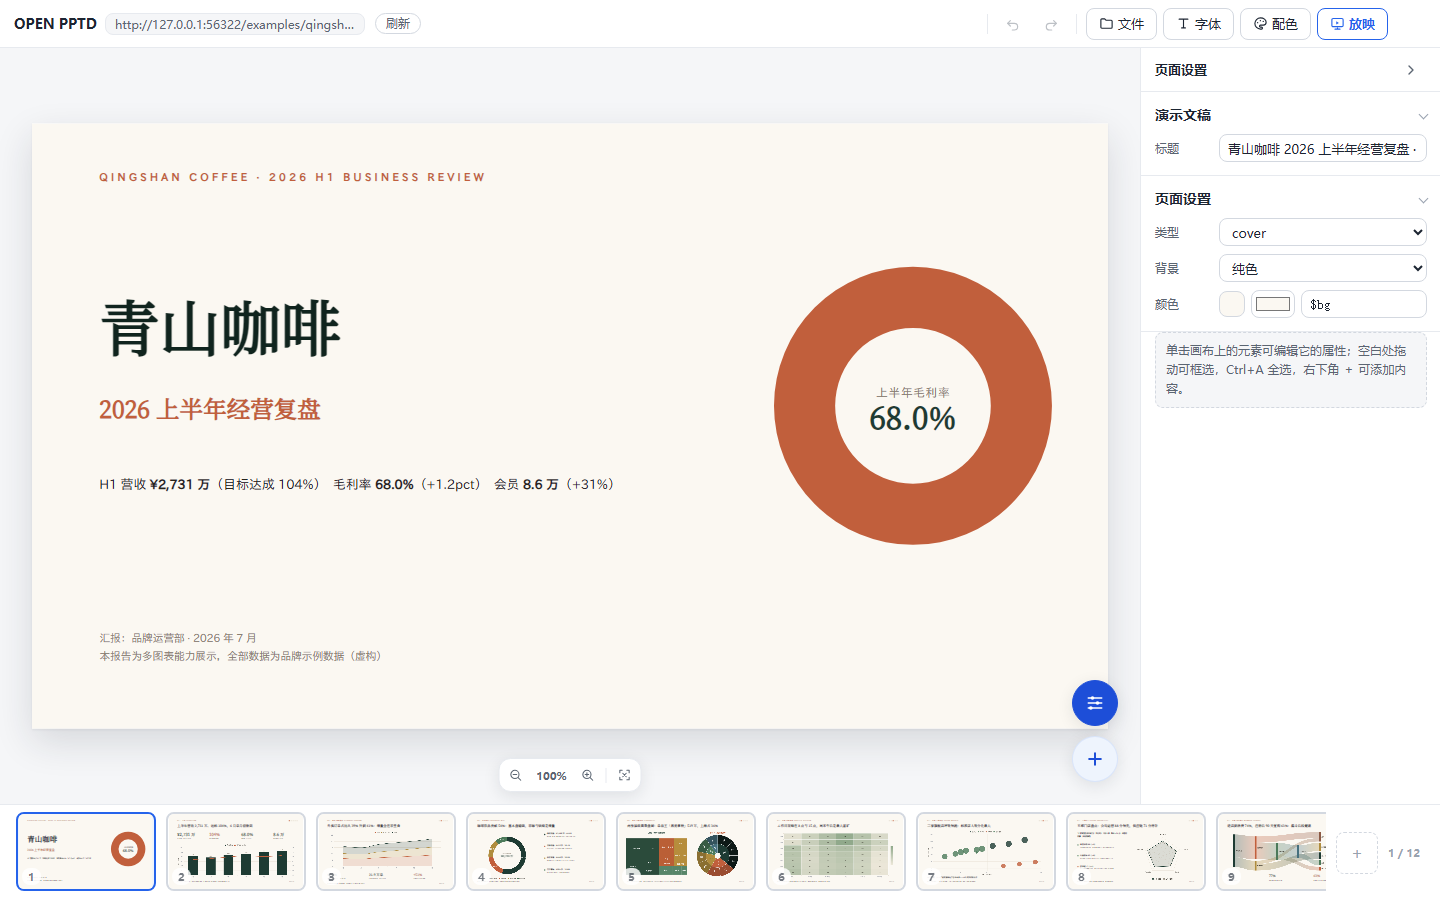
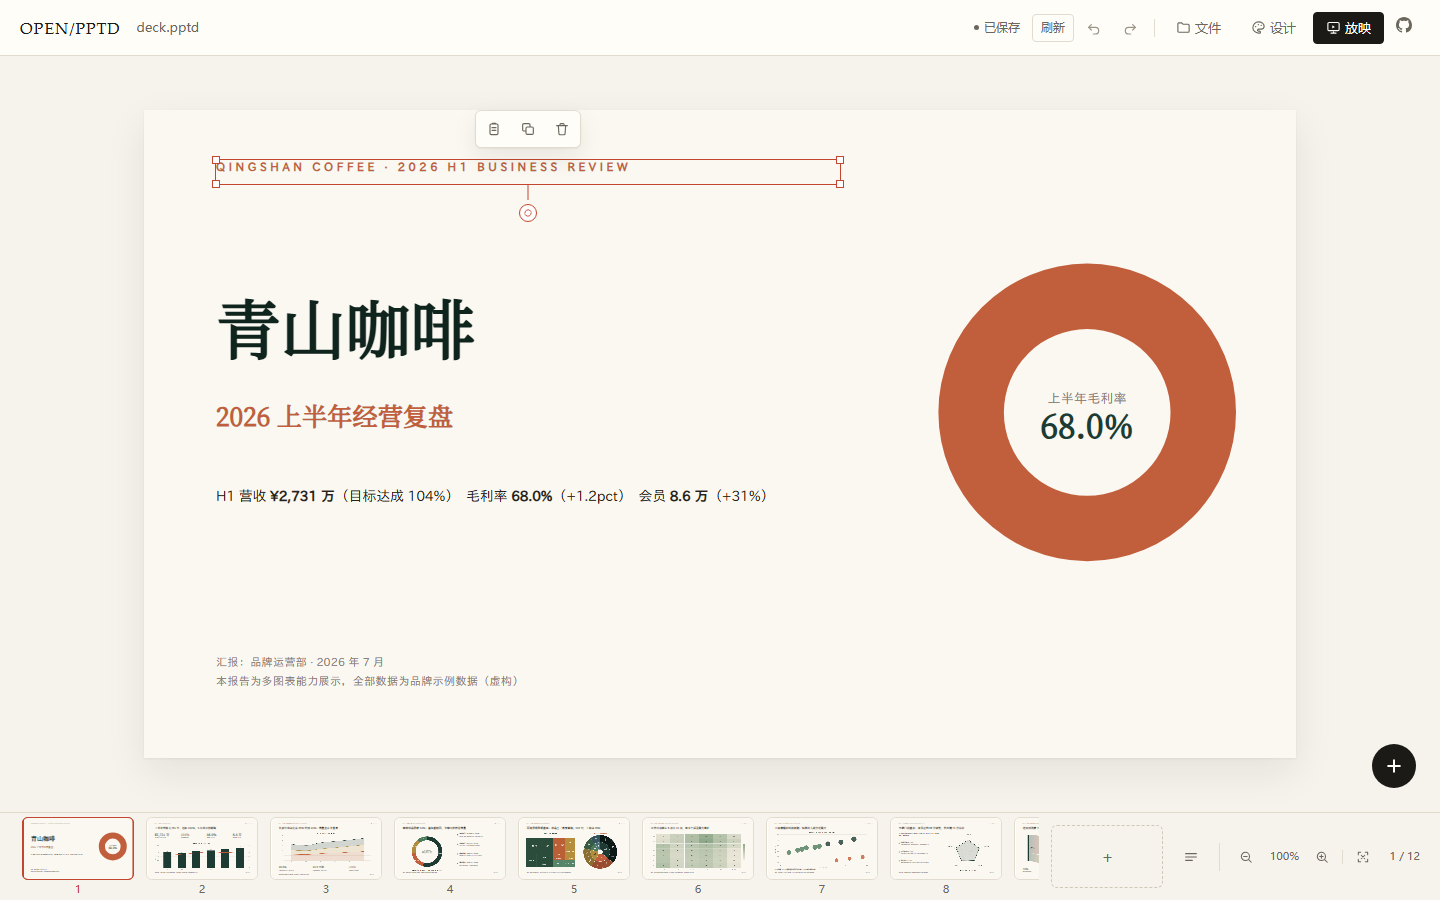
test(ui): 扩展截图流水线（浅/深/窄屏/抽屉/对话框）并更新 README 展示图

diff --git a/README.md b/README.md
@@ -8,7 +8,9 @@
 
 [Online gallery](https://shingwha.github.io/open-pptd/) (no install, click & edit) · [30-second setup](#30-second-setup) · [Use it with AI](#use-it-with-ai)
 
-<img src="docs/images/editor.png" width="880" alt="open-pptd editor: Qingshan Coffee business review — canvas on the left, page thumbnail strip at the bottom"/>
+<img src="docs/images/editor.png" width="880" alt="open-pptd editor: Qingshan Coffee business review — paper canvas with the selection action bar, page thumbnails below"/>
+
+<img src="docs/images/gallery.png" width="880" alt="open-pptd Home: work gallery with presentation and poster tabs"/>
 
 </div>
 

diff --git a/README.zh-CN.md b/README.zh-CN.md
@@ -10,7 +10,9 @@ English: [README.md](README.md)
 
 [线上画廊](https://shingwha.github.io/open-pptd/)（免安装，点开即改）· [30 秒安装](#30-秒上手) · [和 AI 一起用](#和-ai-一起用)
 
-<img src="docs/images/editor.png" width="880" alt="open-pptd 编辑器：青山咖啡经营复盘，左侧画布 + 底部页面缩略条"/>
+<img src="docs/images/editor.png" width="880" alt="open-pptd 编辑器：青山咖啡经营复盘，纸色画布 + 选中操作条 + 底部页面缩略条"/>
+
+<img src="docs/images/gallery.png" width="880" alt="open-pptd 作品画廊：演示与海报分类"/>
 
 </div>
 
